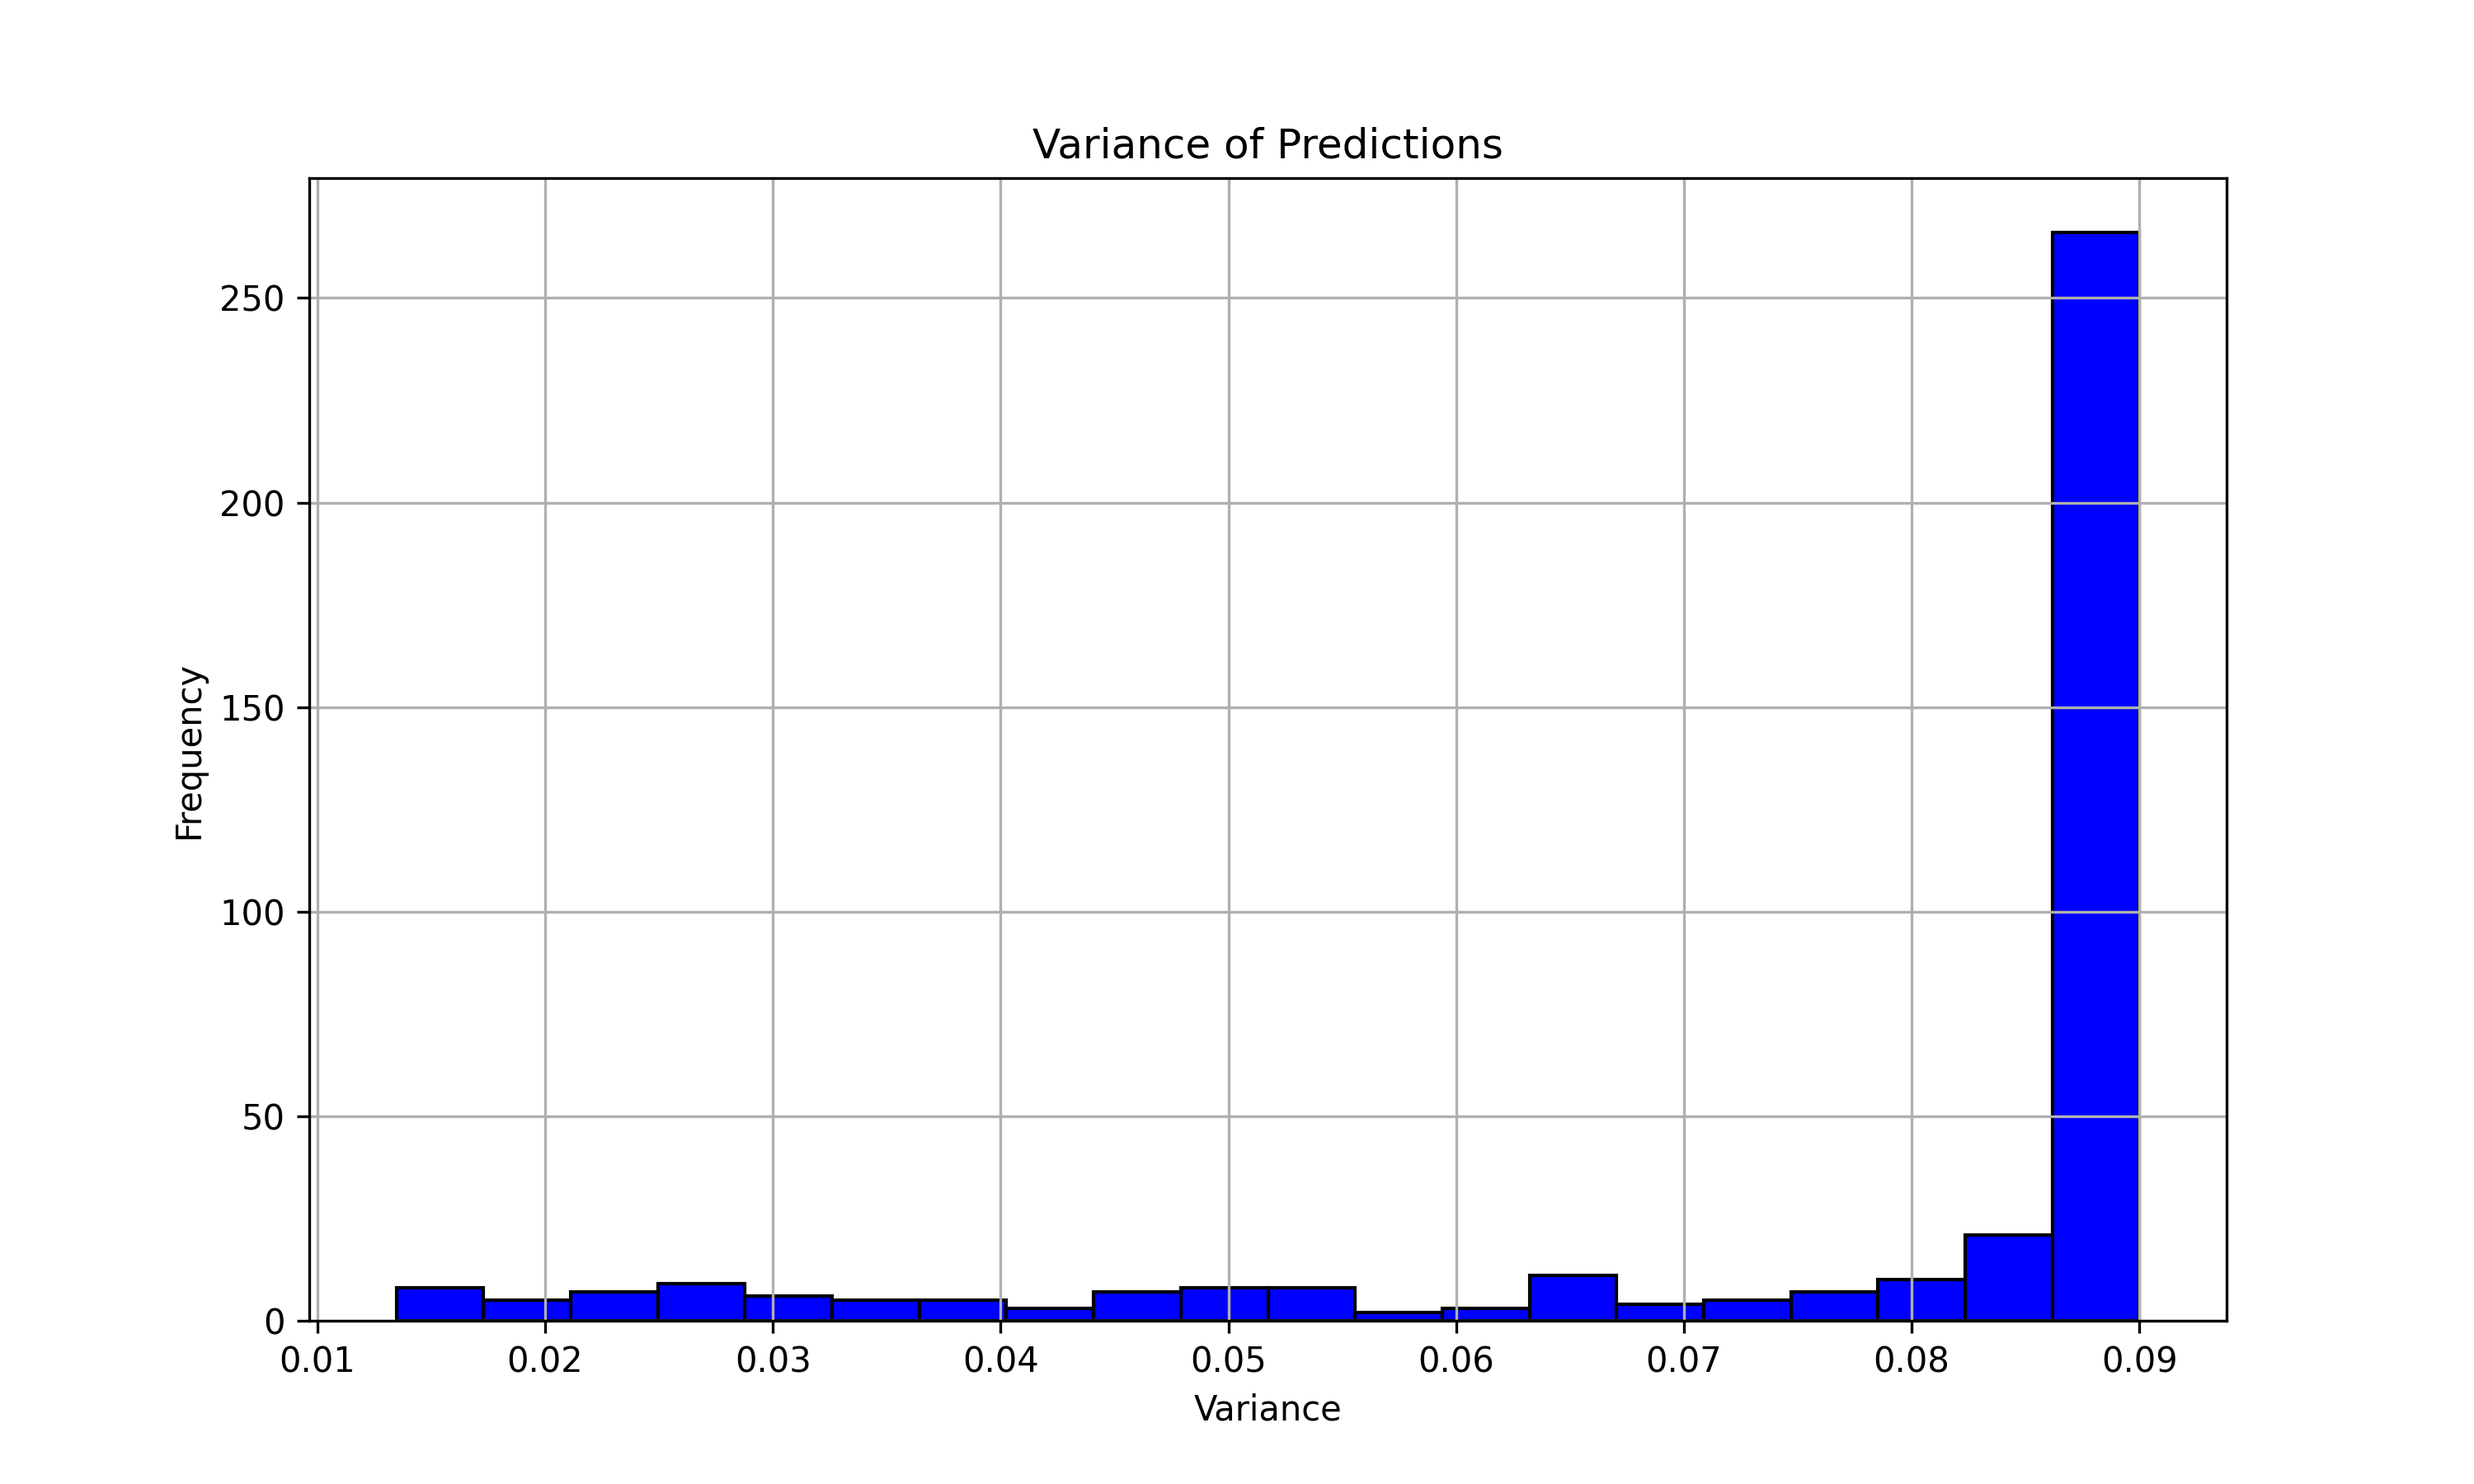
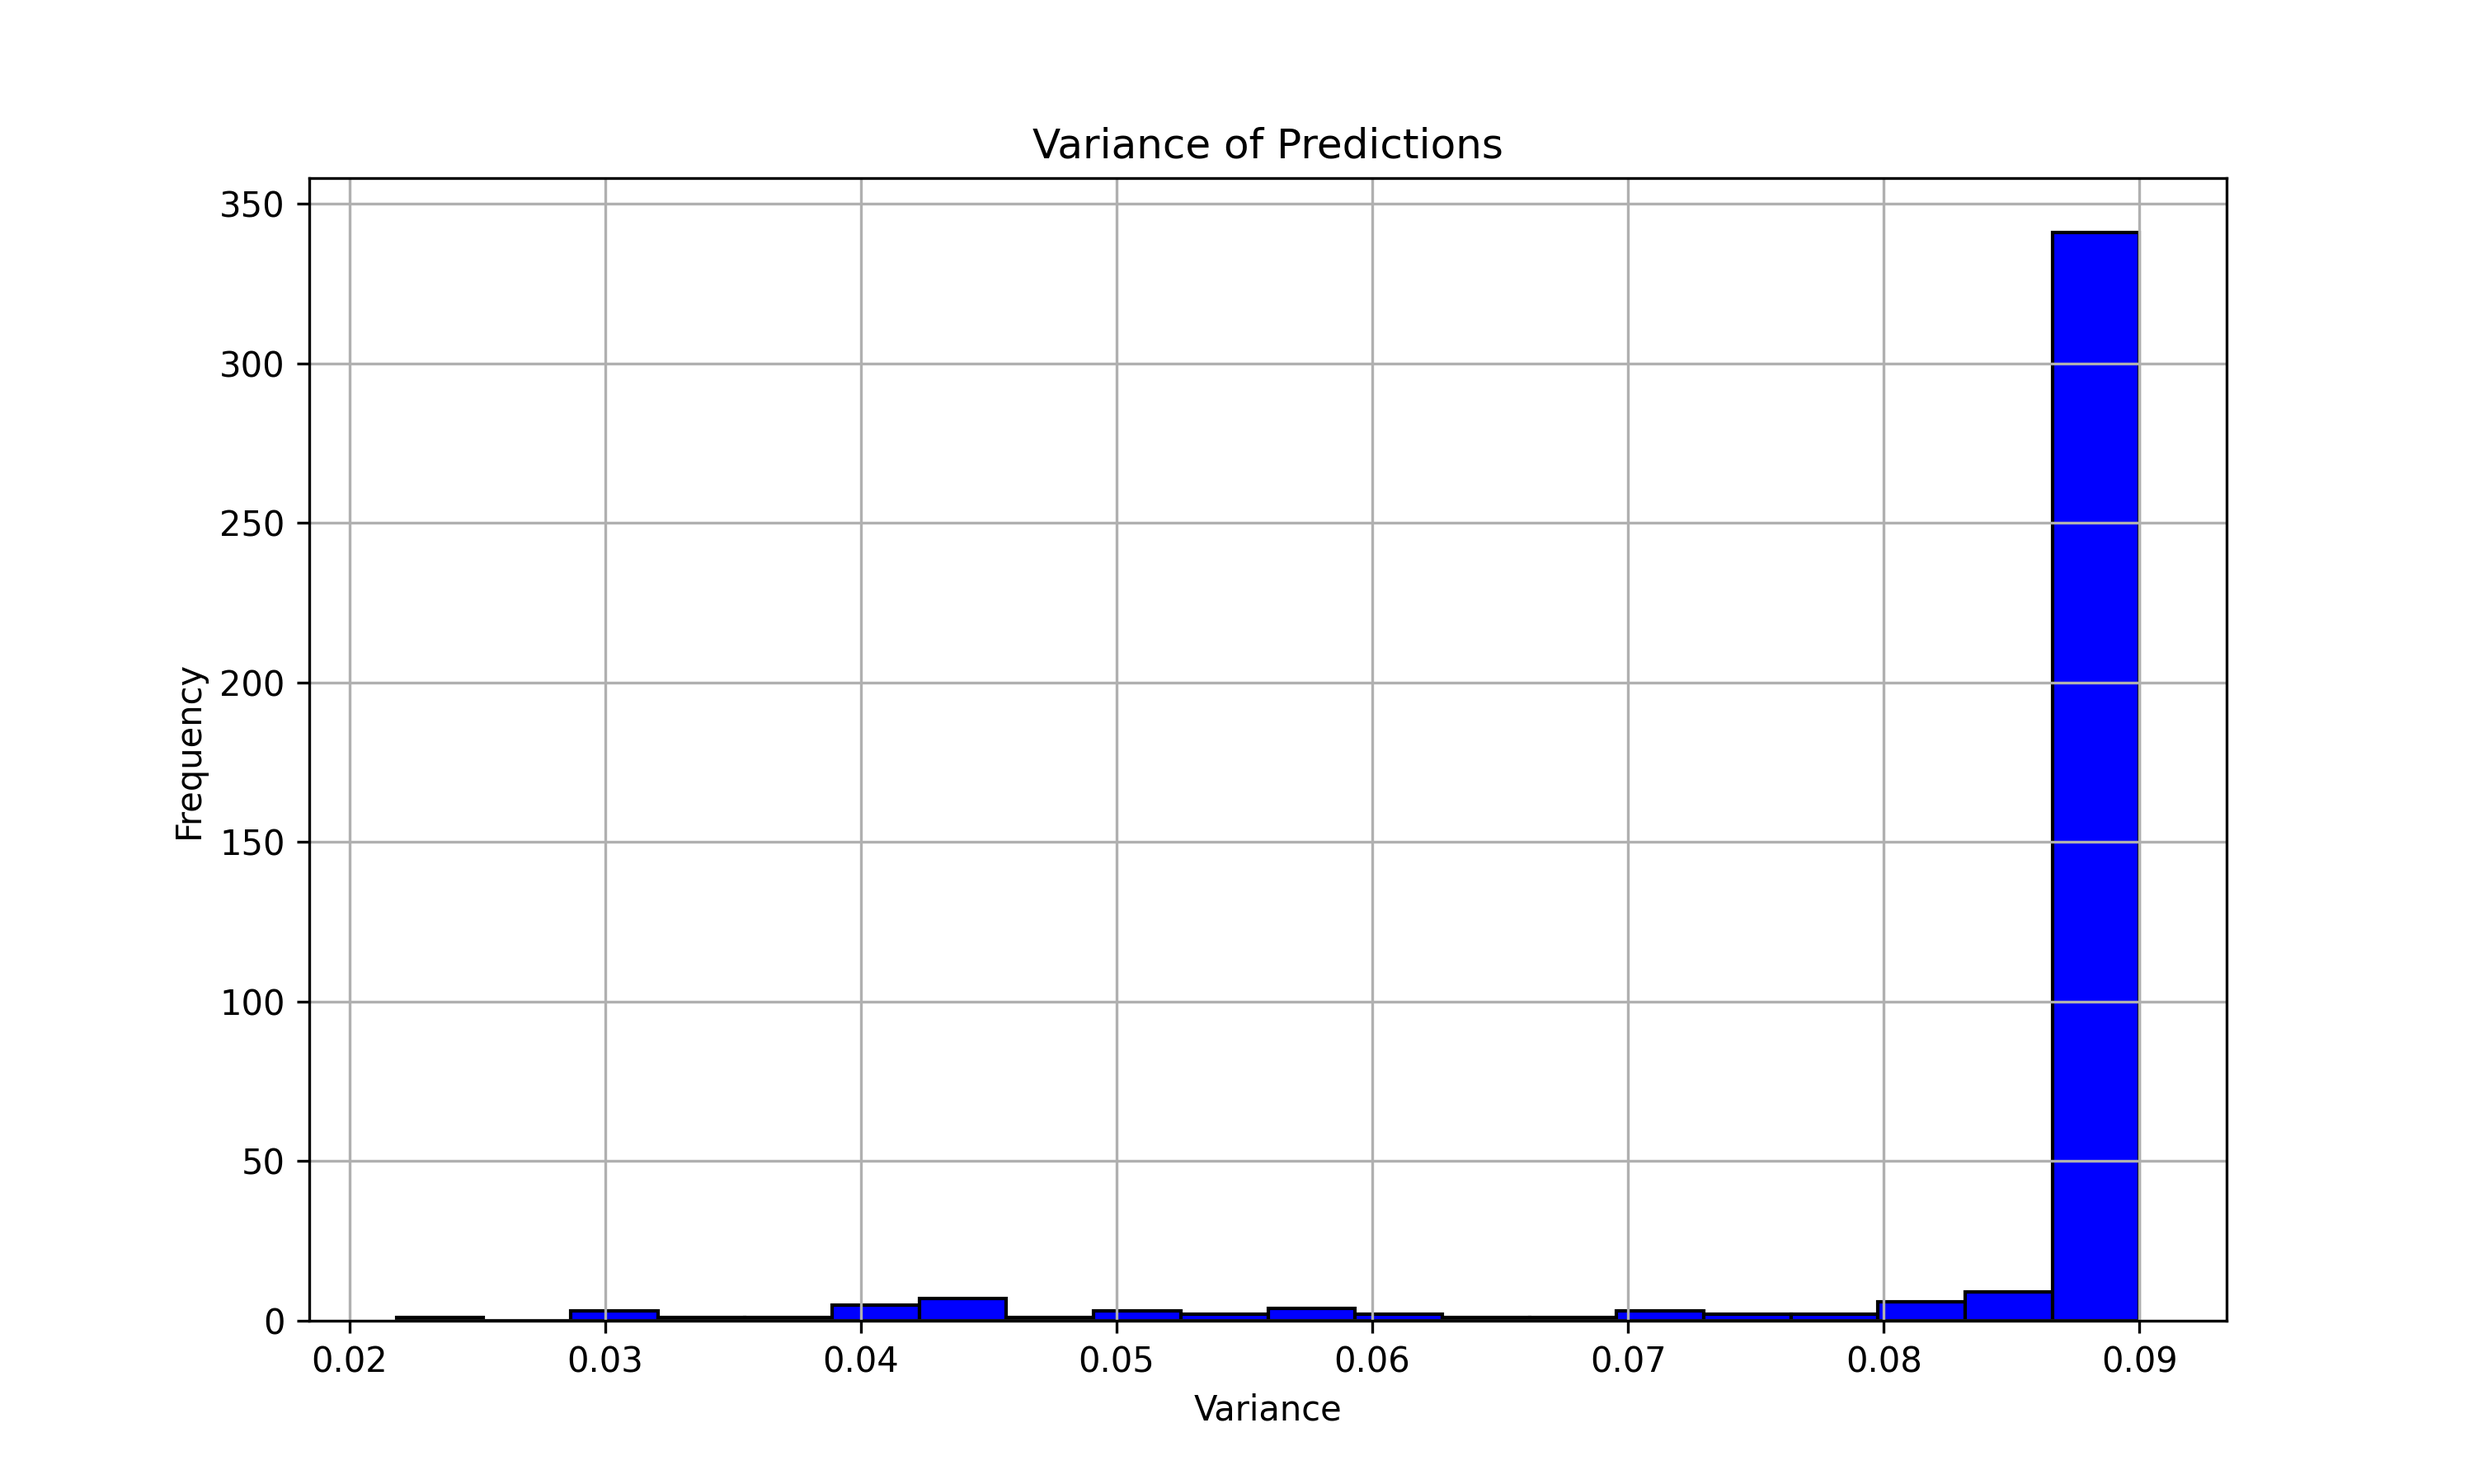
Updating and increasing the augmented_balanced_dataset

diff --git a/data_augmentation.py b/data_augmentation.py
@@ -8,8 +8,8 @@ import numpy as np
 base_dir = "dataset/unprocessed/downloaded/archive"
 output_dir = "augmented_balanced_dataset"
 
-# Nombre d'images cible par dossier
-target_image_count = 100
+# Nombre d'images cible par classe
+target_image_count = 200
 
 # Créer le dossier de sortie s'il n'existe pas
 os.makedirs(output_dir, exist_ok=True)
@@ -32,21 +32,16 @@ for folder_name in os.listdir(base_dir):
         output_folder = os.path.join(output_dir, folder_name)
         os.makedirs(output_folder, exist_ok=True)
         
-        # Copier les images existantes dans le dossier de sortie
-        for image_name in os.listdir(folder_path):
-            image_path = os.path.join(folder_path, image_name)
-            shutil.copy(image_path, os.path.join(output_folder, image_name))
-        
         # Comptage des images actuelles
         current_images = [img for img in os.listdir(folder_path) if img.endswith(('png', 'jpg', 'jpeg'))]
         current_image_count = len(current_images)
         images_to_generate = max(0, target_image_count - current_image_count)
 
         if images_to_generate > 0:
-            print(f"Génération de {images_to_generate} images pour {folder_name}")
+            print(f"Génération de {images_to_generate} images augmentées pour {folder_name}")
             current_image_index = 0  # Pour parcourir les images en rotation
             
-            # Ajouter des images augmentées pour atteindre le nombre cible
+            # Ajouter des images augmentées uniquement
             while images_to_generate > 0:
                 image_name = current_images[current_image_index]
                 image_path = os.path.join(folder_path, image_name)
@@ -70,4 +65,6 @@ for folder_name in os.listdir(base_dir):
                 # Passer à l'image suivante
                 current_image_index = (current_image_index + 1) % len(current_images)
 
-print(f"Augmentation et équilibrage terminés. Chaque dossier contient {target_image_count} images.")
+        print(f"{folder_name} contient maintenant environ {target_image_count} images (originales + augmentées).")
+
+print(f"Augmentation et équilibrage terminés. Chaque dossier contient environ {target_image_count} images.")
